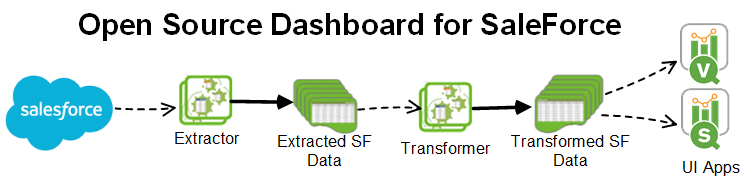
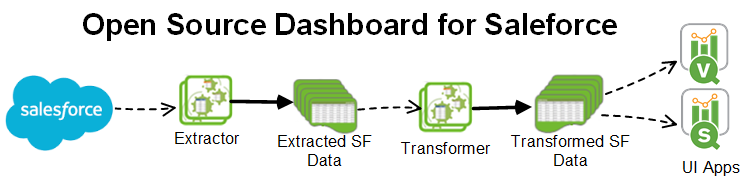
Signed-off-by: Jeff Robbins <JRS@qlik.com>

diff --git a/README.md b/README.md
@@ -9,7 +9,7 @@
 
 Since default Salesforce objects (tables and fields) are the same across all Salesforce implementations, a single common set of Qlik assets can be used by all Qlik customers, for both QlikView and Qlik Sense, to source data from Saleforce for Sales, Marketing and CSO dashboards.
 
-As such, we have created and posted a common set of Qlik assets as an open source project on Qlik Branch and GitHub for free use by Qlik customers. The resulting Open Source Dashboard for SalesForce (“**OSD4SF”** or “**OSD** for **SF”**) is not a demo, template or accelerator. Rather, this  is a ***ready-to-deploy*** SalesForce dashboard, including ETL and UI components, implemented as a set of QVFs for Qlik Sense and a set of QVWs for QlikView. 
+As such, we have created and posted a common set of Qlik assets as an open source project on Qlik Branch and GitHub for free use by Qlik customers. The resulting Open Source Dashboard for Salesforce (“**OSD4SF”** or “**OSD** for **SF”**) is not a demo, template or accelerator. Rather, this  is a ***ready-to-deploy*** SalesForce dashboard, including ETL and UI components, implemented as a set of QVFs for Qlik Sense and a set of QVWs for QlikView. 
 
 
 ![OSD4SF](https://github.com/qlikperf/OSD4SF/blob/master/img/OSD_for_SF.png) 
@@ -26,7 +26,7 @@ To install the **__OSD4SF__**, first download the **[Source code (zip) file for 
 
 ![Unblock](https://github.com/qlikperf/OSD4SF/blob/master/img/osd4sf_unblock_zip.png) 
 
-After unblocking the ZIP file, please follow the Instructions for the  on page 4 of the  **[documentation](https://github.com/qlikperf/OSD4SF/blob/master/Open%20Source%20Dashboard%20for%20Salesforce%20Documentation.pdf)**. 
+After unblocking the ZIP file, please follow the Instructions on page 4 of the  **[documentation](https://github.com/qlikperf/OSD4SF/blob/master/Open%20Source%20Dashboard%20for%20Salesforce%20Documentation.pdf)**. 
 
 This documentation is also contained as a PDF in the **[Source code (zip) file for the newest release](https://github.com/qlikperf/OSD4SF/releases)**.
 
